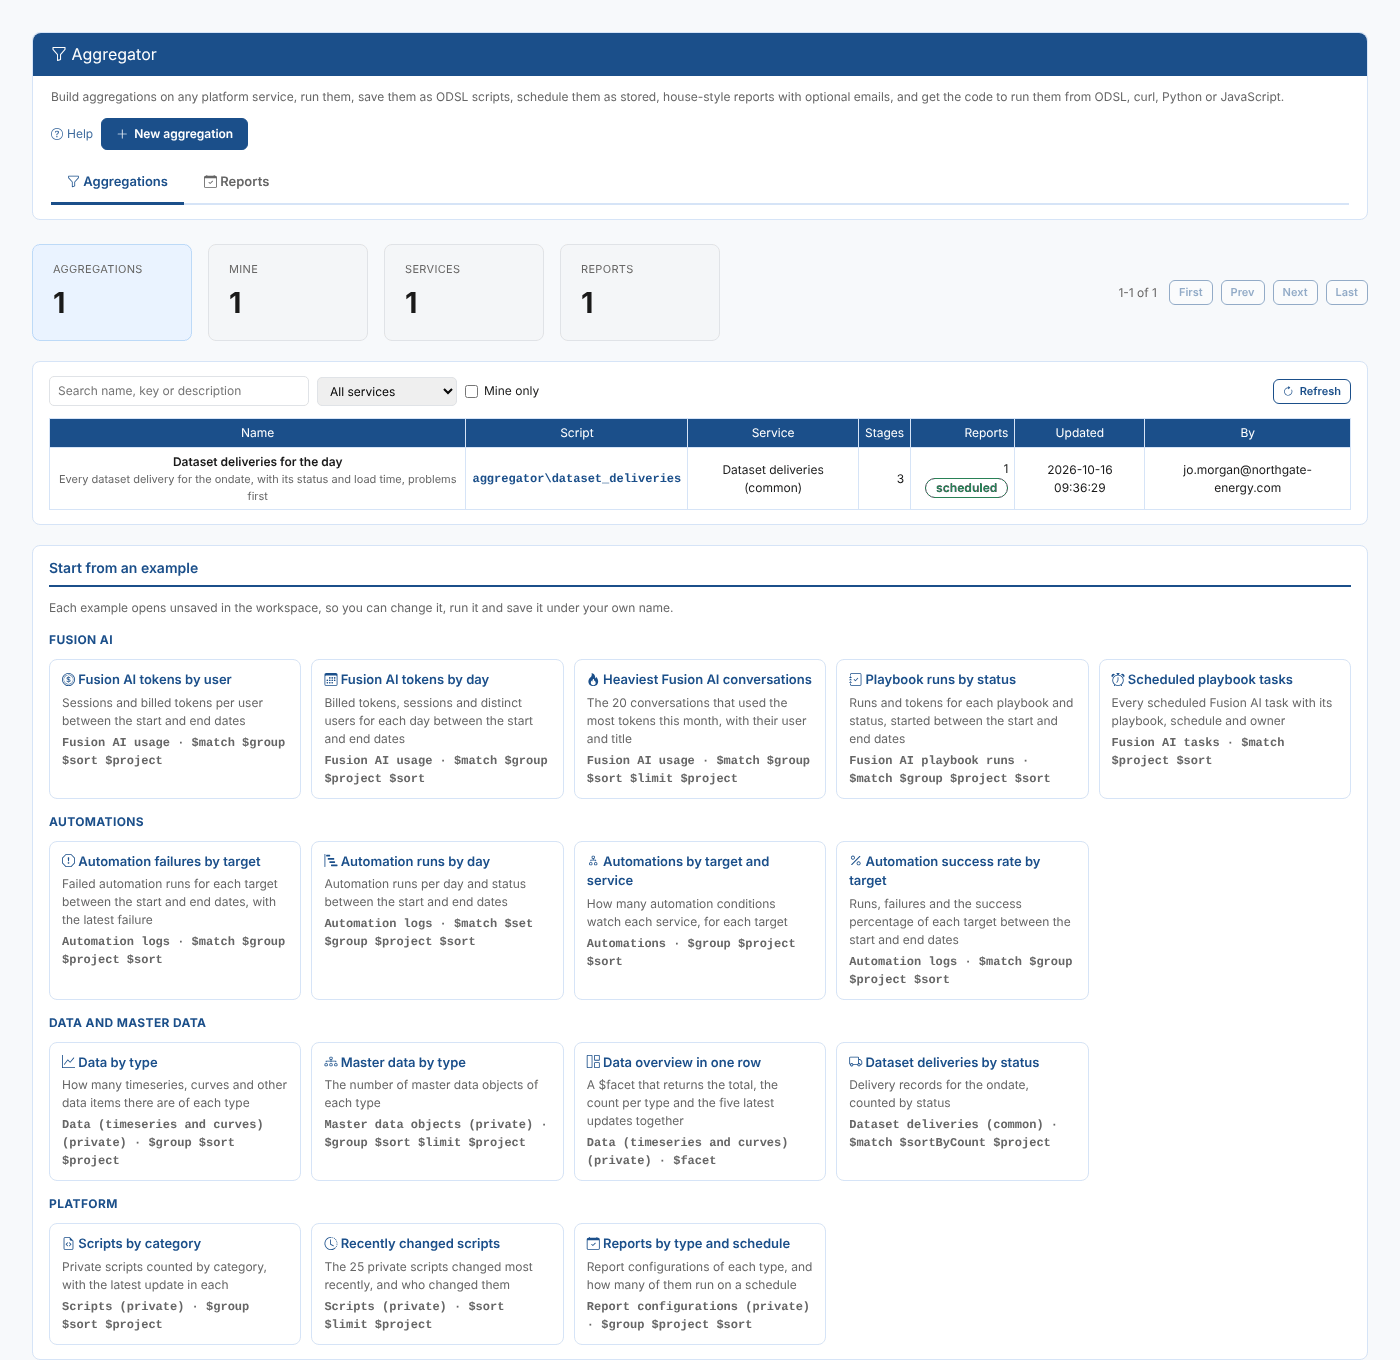
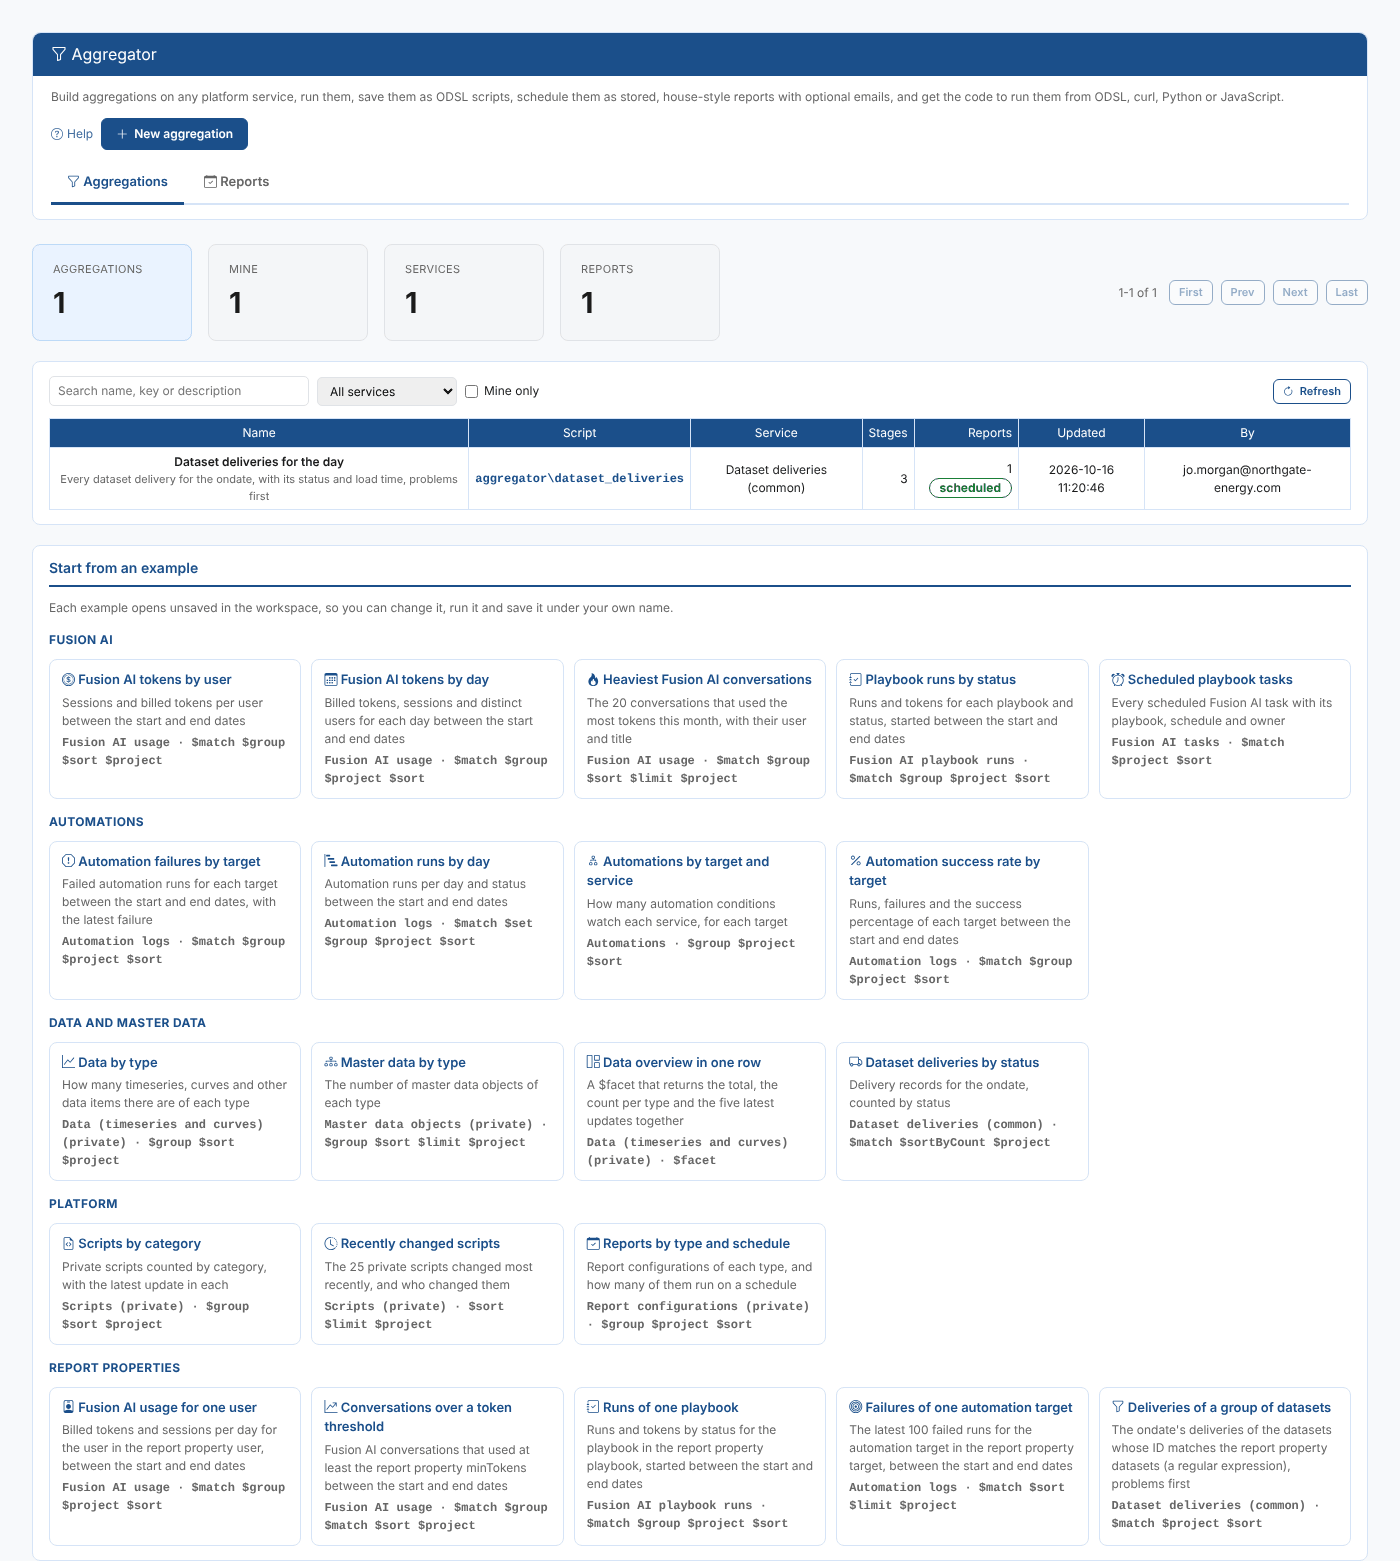
Aggregator

diff --git a/docs/extensions/aggregator/08-examples.md b/docs/extensions/aggregator/08-examples.md
@@ -8,7 +8,7 @@ tags: [extension, aggregator, aggregation, examples]
 
 # Aggregator examples
 
-The **Aggregations** tab has examples under **Start from an example**. Each opens unsaved in the workspace, so you can run it, change it and save it under your own name. They are also a quick way to learn a stage: each one uses a different mix.
+The **Aggregations** tab has examples under **Start from an example**. Each opens unsaved in the workspace, so you can run it, change it and save it under your own name. They are also a quick way to learn a stage: each one uses a different mix. The **Report properties** group shows aggregations that one report or another can fill in differently.
 
 ---
 
@@ -32,6 +32,29 @@ The **Aggregations** tab has examples under **Start from an example**. Each open
 | Platform | Scripts by category | Scripts | A count and the latest change per category |
 | Platform | Recently changed scripts | Scripts | `$sort`, `$limit` and renaming fields |
 | Platform | Reports by type and schedule | Report configurations | `$cond` and `$ifNull` |
+| Report properties | Fusion AI usage for one user | Fusion AI usage | `@{user}` in a `$match`, with a date range |
+| Report properties | Conversations over a token threshold | Fusion AI usage | `@{minTokens}` in a `$match` after the `$group`, read as a number |
+| Report properties | Runs of one playbook | Fusion AI playbook runs | `@{playbook}` in a `$match` |
+| Report properties | Failures of one automation target | Automation logs | `@{target}` in a `$match`, `$sort` and `$limit` for the latest 100 |
+| Report properties | Deliveries of a group of datasets | Dataset deliveries (common) | `@{datasets}` as a `$regex` on the dataset ID |
+
+---
+
+## Examples with report properties
+
+The examples in the **Report properties** group each use a [report property](/docs/extensions/aggregator/how-it-works#report-properties). Save one once, then make a report for each value you need: the aggregation stays the same and each report sets its own value under **Report properties**.
+
+| Example | Property | Test value | Reports you could make |
+|-|-|-|-|
+| Fusion AI usage for one user | `user` | Your own email address | One monthly report for each person, emailed to them |
+| Conversations over a token threshold | `minTokens` | `100000` | A weekly check at `500000` for the finance team, and a daily one at `100000` for the platform team |
+| Runs of one playbook | `playbook` | `#process-failure-triage` | One report for each playbook you run on a schedule |
+| Failures of one automation target | `target` | `odsl.email` | One report for each target its owner looks after, such as `odsl.email` and `odsl.curve` |
+| Deliveries of a group of datasets | `datasets` | `.*` (every dataset) | `^ICE_` for the ICE desk, `^EEX_` for the power desk, as in [One aggregation, several reports](/docs/extensions/aggregator/reports#one-aggregation-several-reports) |
+
+:::tip
+A threshold such as `minTokens` is written in the stage as a string, `"@{minTokens}"`. The platform reads a string that looks like a number as a number, so the comparison works. See [How values are read](/docs/extensions/aggregator/how-it-works#how-values-are-read).
+:::
 
 ---
 
